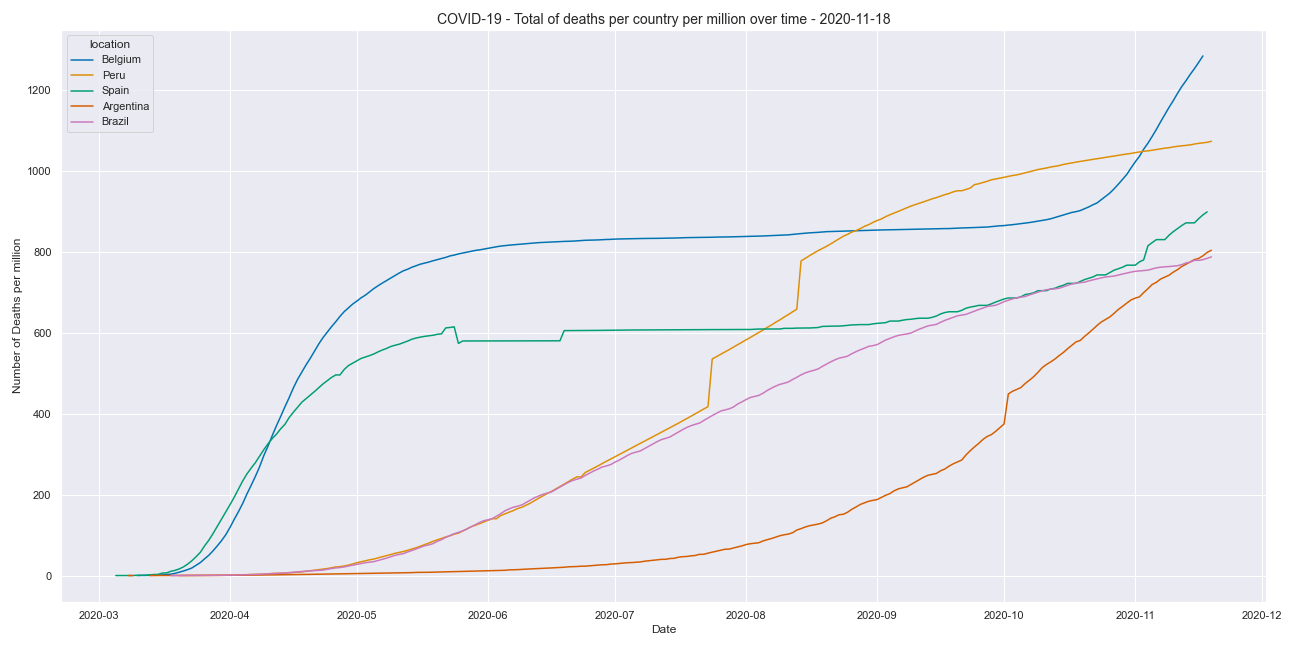
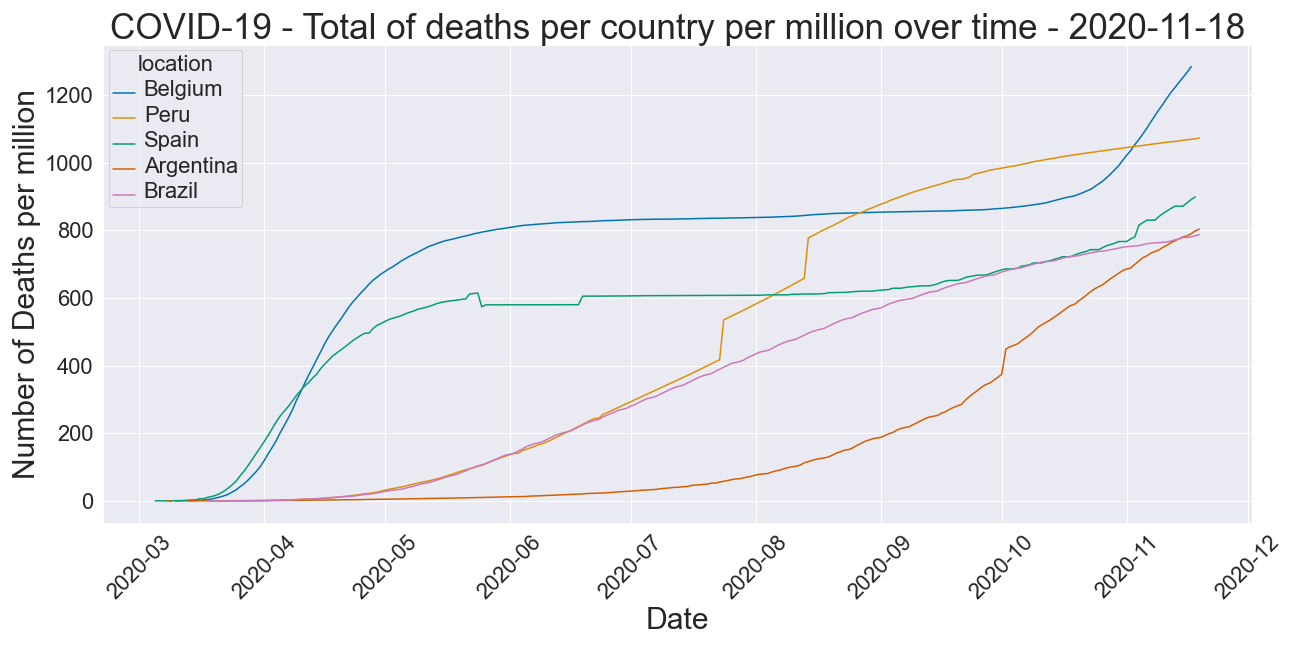
clearer plots

diff --git a/_posts/2020-11-17-covid-analysis.md b/_posts/2020-11-17-covid-analysis.md
@@ -93,7 +93,7 @@ We see that the US is leading the way in tests performed per 1000 people, so it 
 
 ## Evolution in terms of case numbers
 
-We can get an idea of the speed covid spread per country by plotting the time series of the case count. To keep the charts uncluttered we will do this for just the 5 countries with the most cases
+We can get an idea of the speed covid spread per country by plotting the time series of the case count. To keep the charts uncluttered I will do this for just the 5 countries with the most cases.
 
 ![alt]({{ site.url }}{{ site.baseurl }}/assets/images/covid_evo_cases.png)
 
@@ -101,18 +101,25 @@ The number of cases starting increasing around mid to late March for the US, wit
 
 For a long time, Brazil, was the country with the second-highest number of cases until it was overtaken by India in early September. 
 
-The UK seemed to flatten out for a while but has recently seen the case numbers begin to rise again.
+France seemed to flatten out for a while but has recently seen the case numbers begin to rise again.
 
-## Evolution in terms of death counts
+## Evolution in terms of death counts per million
 
 We take the top countries by per million death counts and plot the evolution of total deaths in the country over time
 
 ![alt]({{ site.url }}{{ site.baseurl }}/assets/images/covid_evo_deaths_per_million.png)
 
+This graph shows Belgium having the highest death counts per million, and despite flattening their curve in May, they entered a second wave around October.
+
+Peru is the next most affected and has seen a fairly steady increase in deaths per million. There are some odd sharp jumps in death counts, most likely to do with the way the data was collected (entering big batches of deaths to the system after delay all at once).
+
+Spain has also been very badly affected and just like Belgium has entered into a second wave as the European winter begins.
+
+Argentina seems to be a late bloomer. Despite their initial hard and strict lockdowns, it seems since around August the death rate per million has exploded there.
 
 # A closer look at Brazil
 
-Brazil has been something of an exception to most countries in the world. President Bolsonero is not a fan of lockdowns and the policy in Brazil was much more relaxed than
+Brazil has been something of an exception to most countries in the world. President Bolsonaro is not a fan of lockdowns and the policy in Brazil was much more relaxed than
 most countries around the globe. Borders reopened around July and tourism has been allowed since that time.
 
 Brazil recorded its first case on 2020-02-26 and its first death was on 2020-03-18 
